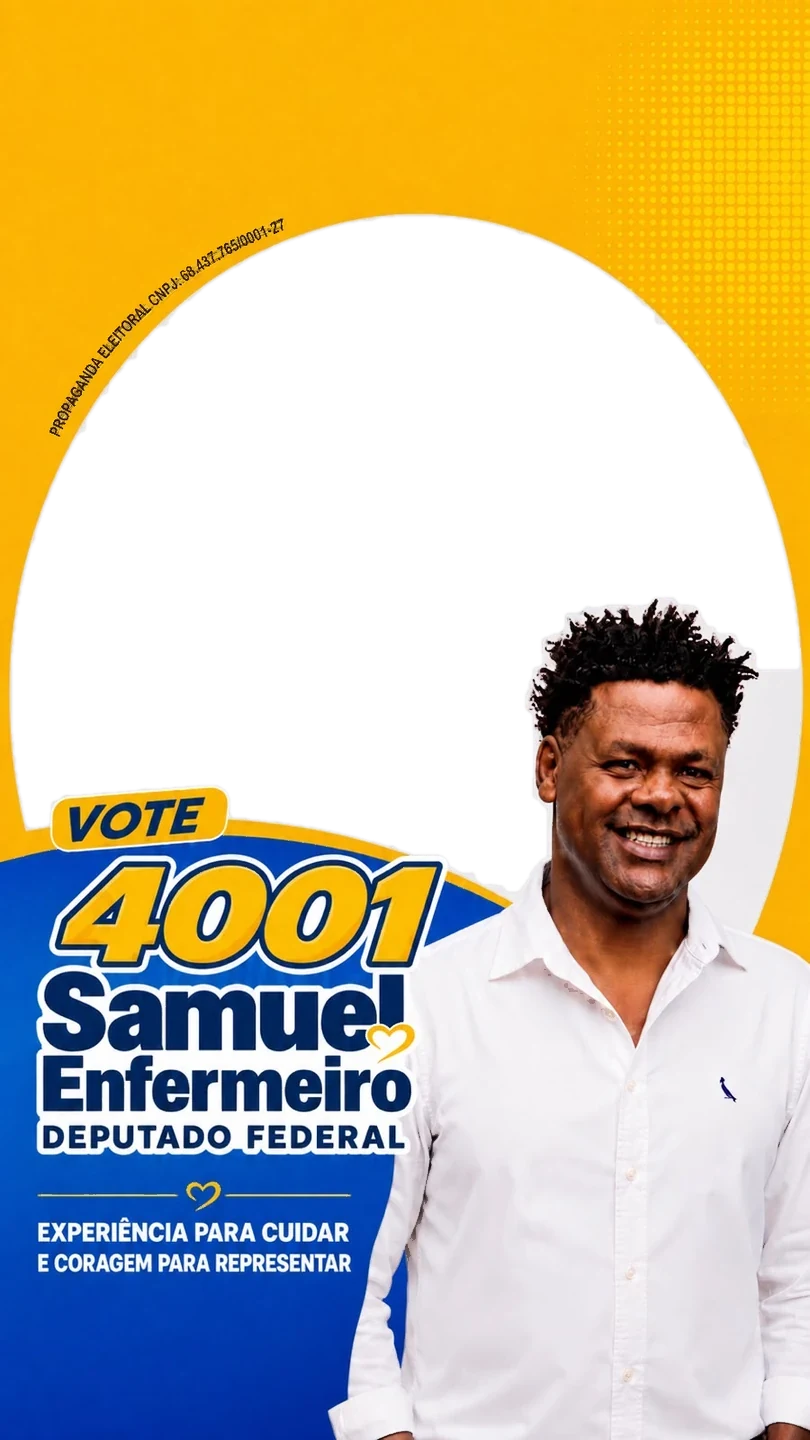
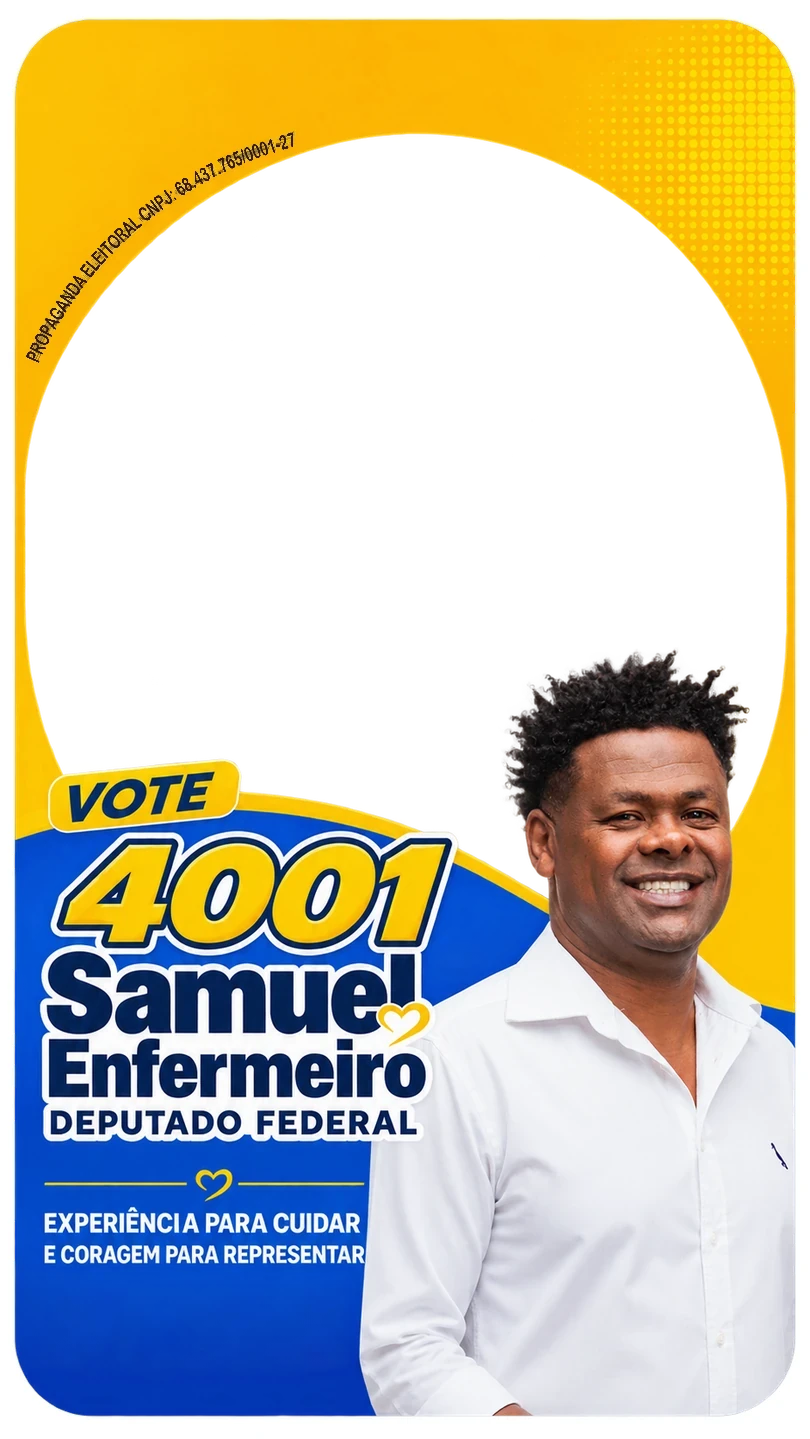
Adota as artes novas do designer, com transparência de verdade
Chegaram PNG com miolo realmente vazado — 52% na 1:1 e 42% na story
amarela. Substituem minha reconstrução a partir de JPEG achatado, que era
a origem de quase todos os defeitos das últimas rodadas: mordidas na
camisa, franja, filete preto.

Dois ajustes foram necessários:

Os cantos das artes também vinham transparentes, o que faria a foto da
pessoa vazar para fora do círculo e estragar o enquadramento. Fechados em
branco. A identificação do buraco usa a regra de não tocar a borda da
imagem — as áreas de canto tocam, o miolo não.

A story amarela veio com CNPJ 68.431.766/0001-27, inválido pelo dígito
verificador. Corrigido para 68.437.765/0001-27 pelo mesmo método de
desenrolar o arco, redesenhar e enrolar de volta.

A 1:1 veio com o CNPJ correto e não precisou de retoque.

Não entraram: IMG_0241, sem transparência; e os dois JPEG do WhatsApp,
sem transparência e com CNPJ 48.437.861/0001-27, também inválido.

diff --git a/index.html b/index.html
@@ -346,14 +346,14 @@
   // Todas as artes num so lugar. O que estiver selecionado aparece no quadro
   // de cima e e o que a pessoa baixa — o que ela ve e o que ela leva.
   var MOLDURAS = [
-    { grupo: "story", indice: 0, nome: "Amarela", W: 810, H: 1440,
-      cx: 405, cy: 554, rx: 394, ry: 338, focoX: 405,
+    { grupo: "story", indice: 0, nome: "Amarela", W: 810, H: 1439,
+      cx: 405, cy: 515, rx: 380, ry: 382, focoX: 405,
       arquivo: "samuel-enfermeiro-story.png", src: "assets/molduras/story-amarelo.webp" },
     { grupo: "story", indice: 1, nome: "Azul", W: 810, H: 1440,
       cx: 405, cy: 635, rx: 405, ry: 462, focoX: 405,
       arquivo: "samuel-enfermeiro-story.png", src: "assets/molduras/story-azul.webp" },
     { grupo: "formato", indice: 0, nome: "Foto de perfil", W: 1080, H: 1080,
-      cx: 540, cy: 400, rx: 483, ry: 344, focoX: 470,
+      cx: 537, cy: 396, rx: 478, ry: 333, focoX: 470,
       arquivo: "samuel-enfermeiro-perfil.png", src: "assets/molduras/perfil-1x1.webp" },
     { grupo: "formato", indice: 1, nome: "Post do Instagram", W: 864, H: 1079,
       cx: 434, cy: 400, rx: 428, ry: 340, focoX: 434,
